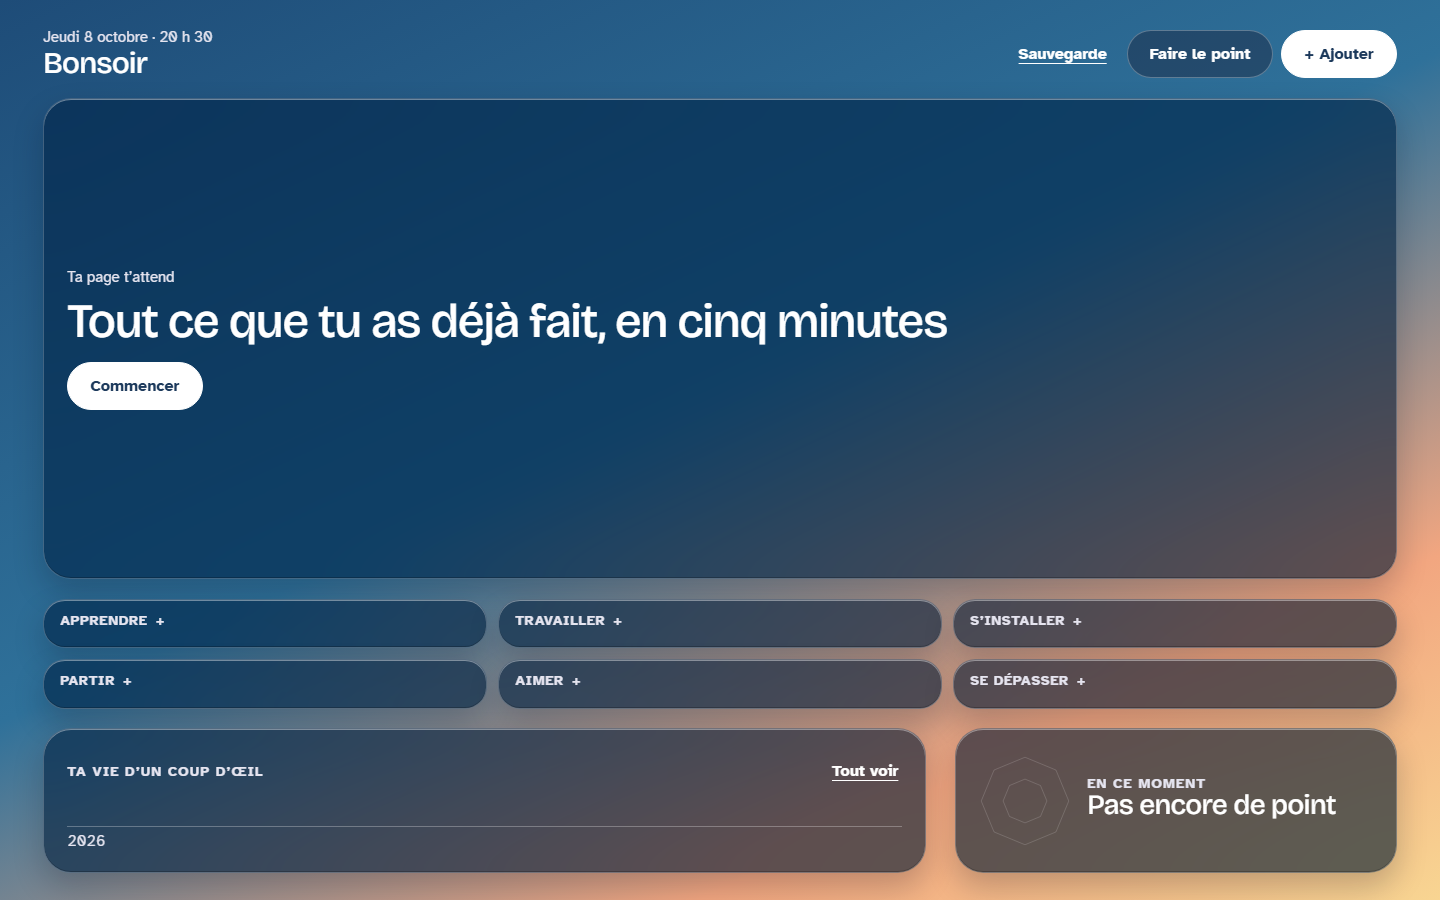
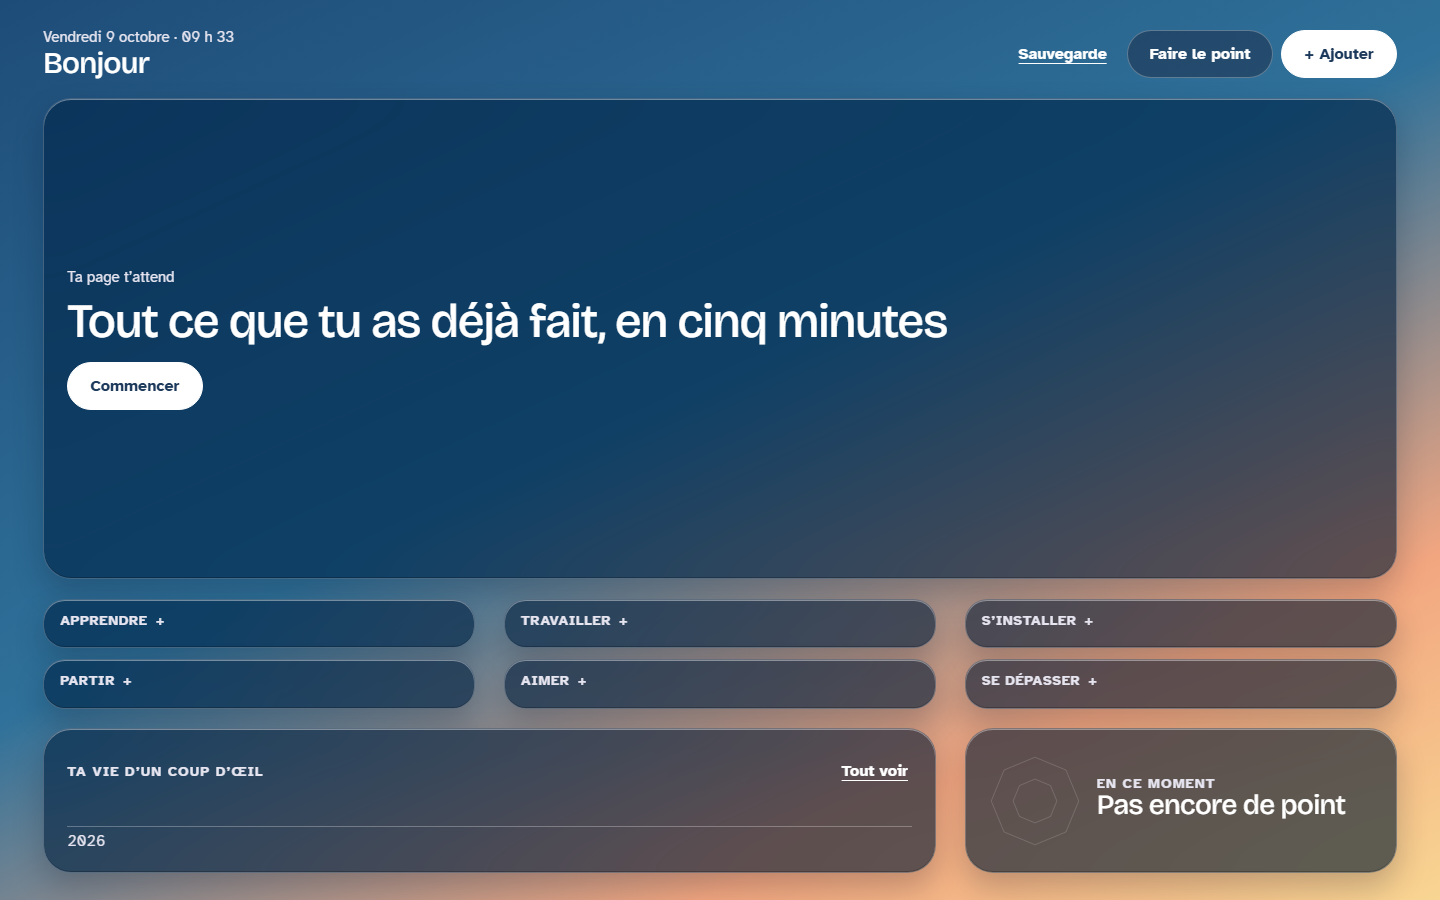
Trophées de vie : toute la page sur une même grille de trois colonnes
Les rangées du haut et du bas étaient en deux tiers et un tiers avec une
gouttière, les tuiles en trois colonnes avec une autre : les bords ne
tombaient pas en face. Un essai vérifie maintenant l'alignement.

diff --git a/trophees-de-vie/css/app.css b/trophees-de-vie/css/app.css
@@ -306,3 +306,12 @@ h1{font-size:30px}
 @media (max-height:800px){ .bl ul{gap:3px;margin-top:6px} .bl li strong{font-size:17px} #bl-total .num{font-size:68px} #bl-total .n{font-size:16px} #feats-vide{display:none} .cv{grid-template-columns:72px minmax(0,1fr)} }
 @media (max-width:900px){ .page,.page.vide{grid-template-columns:minmax(0,1fr);grid-template-areas:"top" "bl" "sv" "ax" "rb" "cv"} .page.vide{grid-template-areas:"top" "sv" "ax" "rb" "cv"} .bl{grid-template-columns:minmax(0,1fr)} #axes{grid-template-columns:minmax(0,1fr)} }
 .page.vide .sv .t{font-size:clamp(30px,3.4vw,48px)}
+
+/* v10 : une seule grille de trois colonnes pour toute la page. Avant, les rangées 1 et 3
+   étaient en deux tiers / un tiers avec une gouttière, et les tuiles en trois colonnes avec
+   une autre : les bords ne tombaient pas en face. */
+.page{--gouttiere:clamp(16px,2vw,32px);grid-template-columns:repeat(3,minmax(0,1fr));column-gap:var(--gouttiere);grid-template-areas:"top top top" "bl bl sv" "ax ax ax" "rb rb cv"}
+.page.vide{grid-template-areas:"top top top" "sv sv sv" "ax ax ax" "rb rb cv"}
+#axes{column-gap:var(--gouttiere)}
+@media (max-height:800px){ .page{--gouttiere:16px} }
+@media (max-width:900px){ .page,.page.vide{grid-template-columns:minmax(0,1fr);grid-template-areas:"top" "bl" "sv" "ax" "rb" "cv"} .page.vide{grid-template-areas:"top" "sv" "ax" "rb" "cv"} }

diff --git a/trophees-de-vie/js/app.js b/trophees-de-vie/js/app.js
@@ -4,10 +4,10 @@
 
 // Le numéro suit celui d'index.html : Pages garde un fichier dix minutes, et sans lui
 // un nouvel app.js pourrait charger une ancienne configuration.
-import { ouvrir, demanderPersistance } from './stockage.js?v=9';
-import { NIVEAUX, CATEGORIES, REUSSITES, CATALOGUE, BADGE_TOUT } from './config/vie.js?v=9';
-import { DOMAINES, METEOS, ELANS, MOIS, JOURS } from './config/domaines.js?v=9';
-import { lire, definition, rarete, medaille, dejaFaites, comptes, parCategorie, hautsFaits, plusRares, badges, ruban, decennies, souvenirDuJour, dernierPoint, pointDavant, phraseRoue } from './coeur.js?v=9';
+import { ouvrir, demanderPersistance } from './stockage.js?v=10';
+import { NIVEAUX, CATEGORIES, REUSSITES, CATALOGUE, BADGE_TOUT } from './config/vie.js?v=10';
+import { DOMAINES, METEOS, ELANS, MOIS, JOURS } from './config/domaines.js?v=10';
+import { lire, definition, rarete, medaille, dejaFaites, comptes, parCategorie, hautsFaits, plusRares, badges, ruban, decennies, souvenirDuJour, dernierPoint, pointDavant, phraseRoue } from './coeur.js?v=10';
 
 const NS = 'http://www.w3.org/2000/svg';
 const $ = (id) => document.getElementById(id);

diff --git a/trophees-de-vie/index.html b/trophees-de-vie/index.html
@@ -8,7 +8,7 @@
 <meta name="theme-color" content="#1E4C78">
 <link rel="icon" href="icone.svg" type="image/svg+xml">
 <link rel="preload" href="polices/bricolage.woff2" as="font" type="font/woff2" crossorigin>
-<link rel="stylesheet" href="css/app.css?v=9">
+<link rel="stylesheet" href="css/app.css?v=10">
 </head>
 <body>
 <div class="page">
@@ -60,6 +60,6 @@
 </div>
 <div class="toast" id="toast" role="status" aria-live="polite"></div>
 
-<script type="module" src="js/app.js?v=9"></script>
+<script type="module" src="js/app.js?v=10"></script>
 </body>
 </html>
